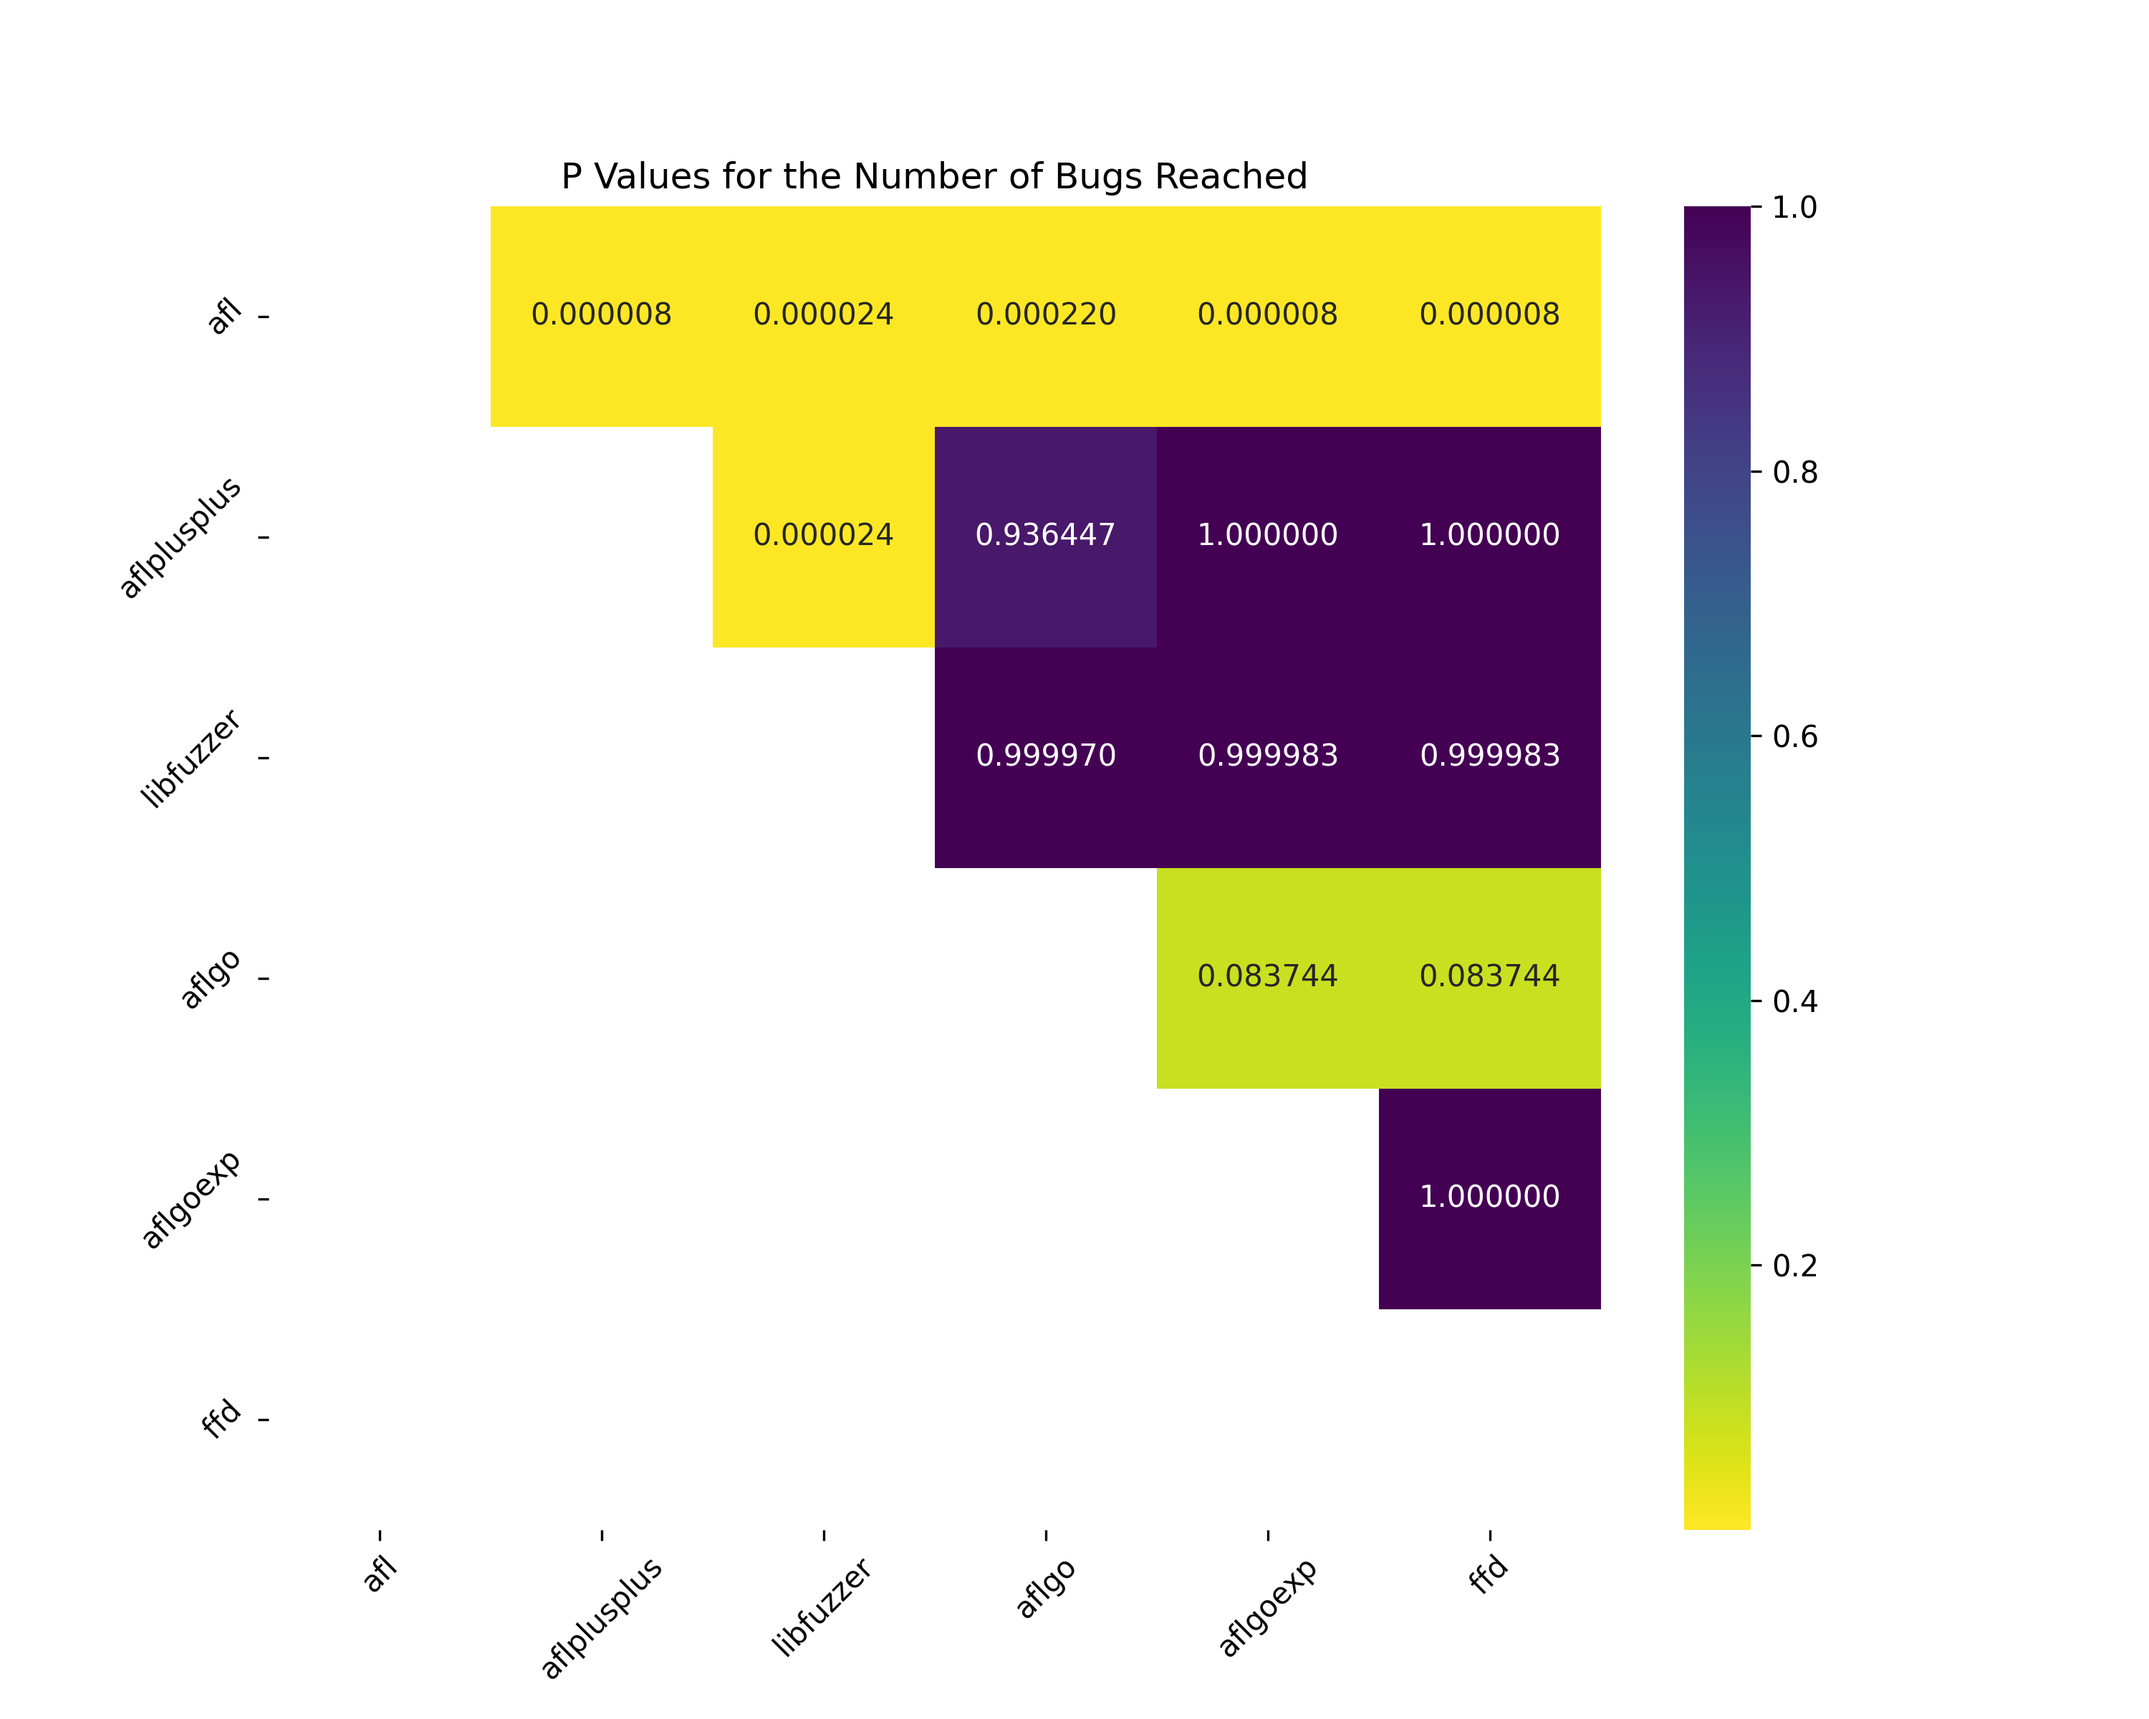
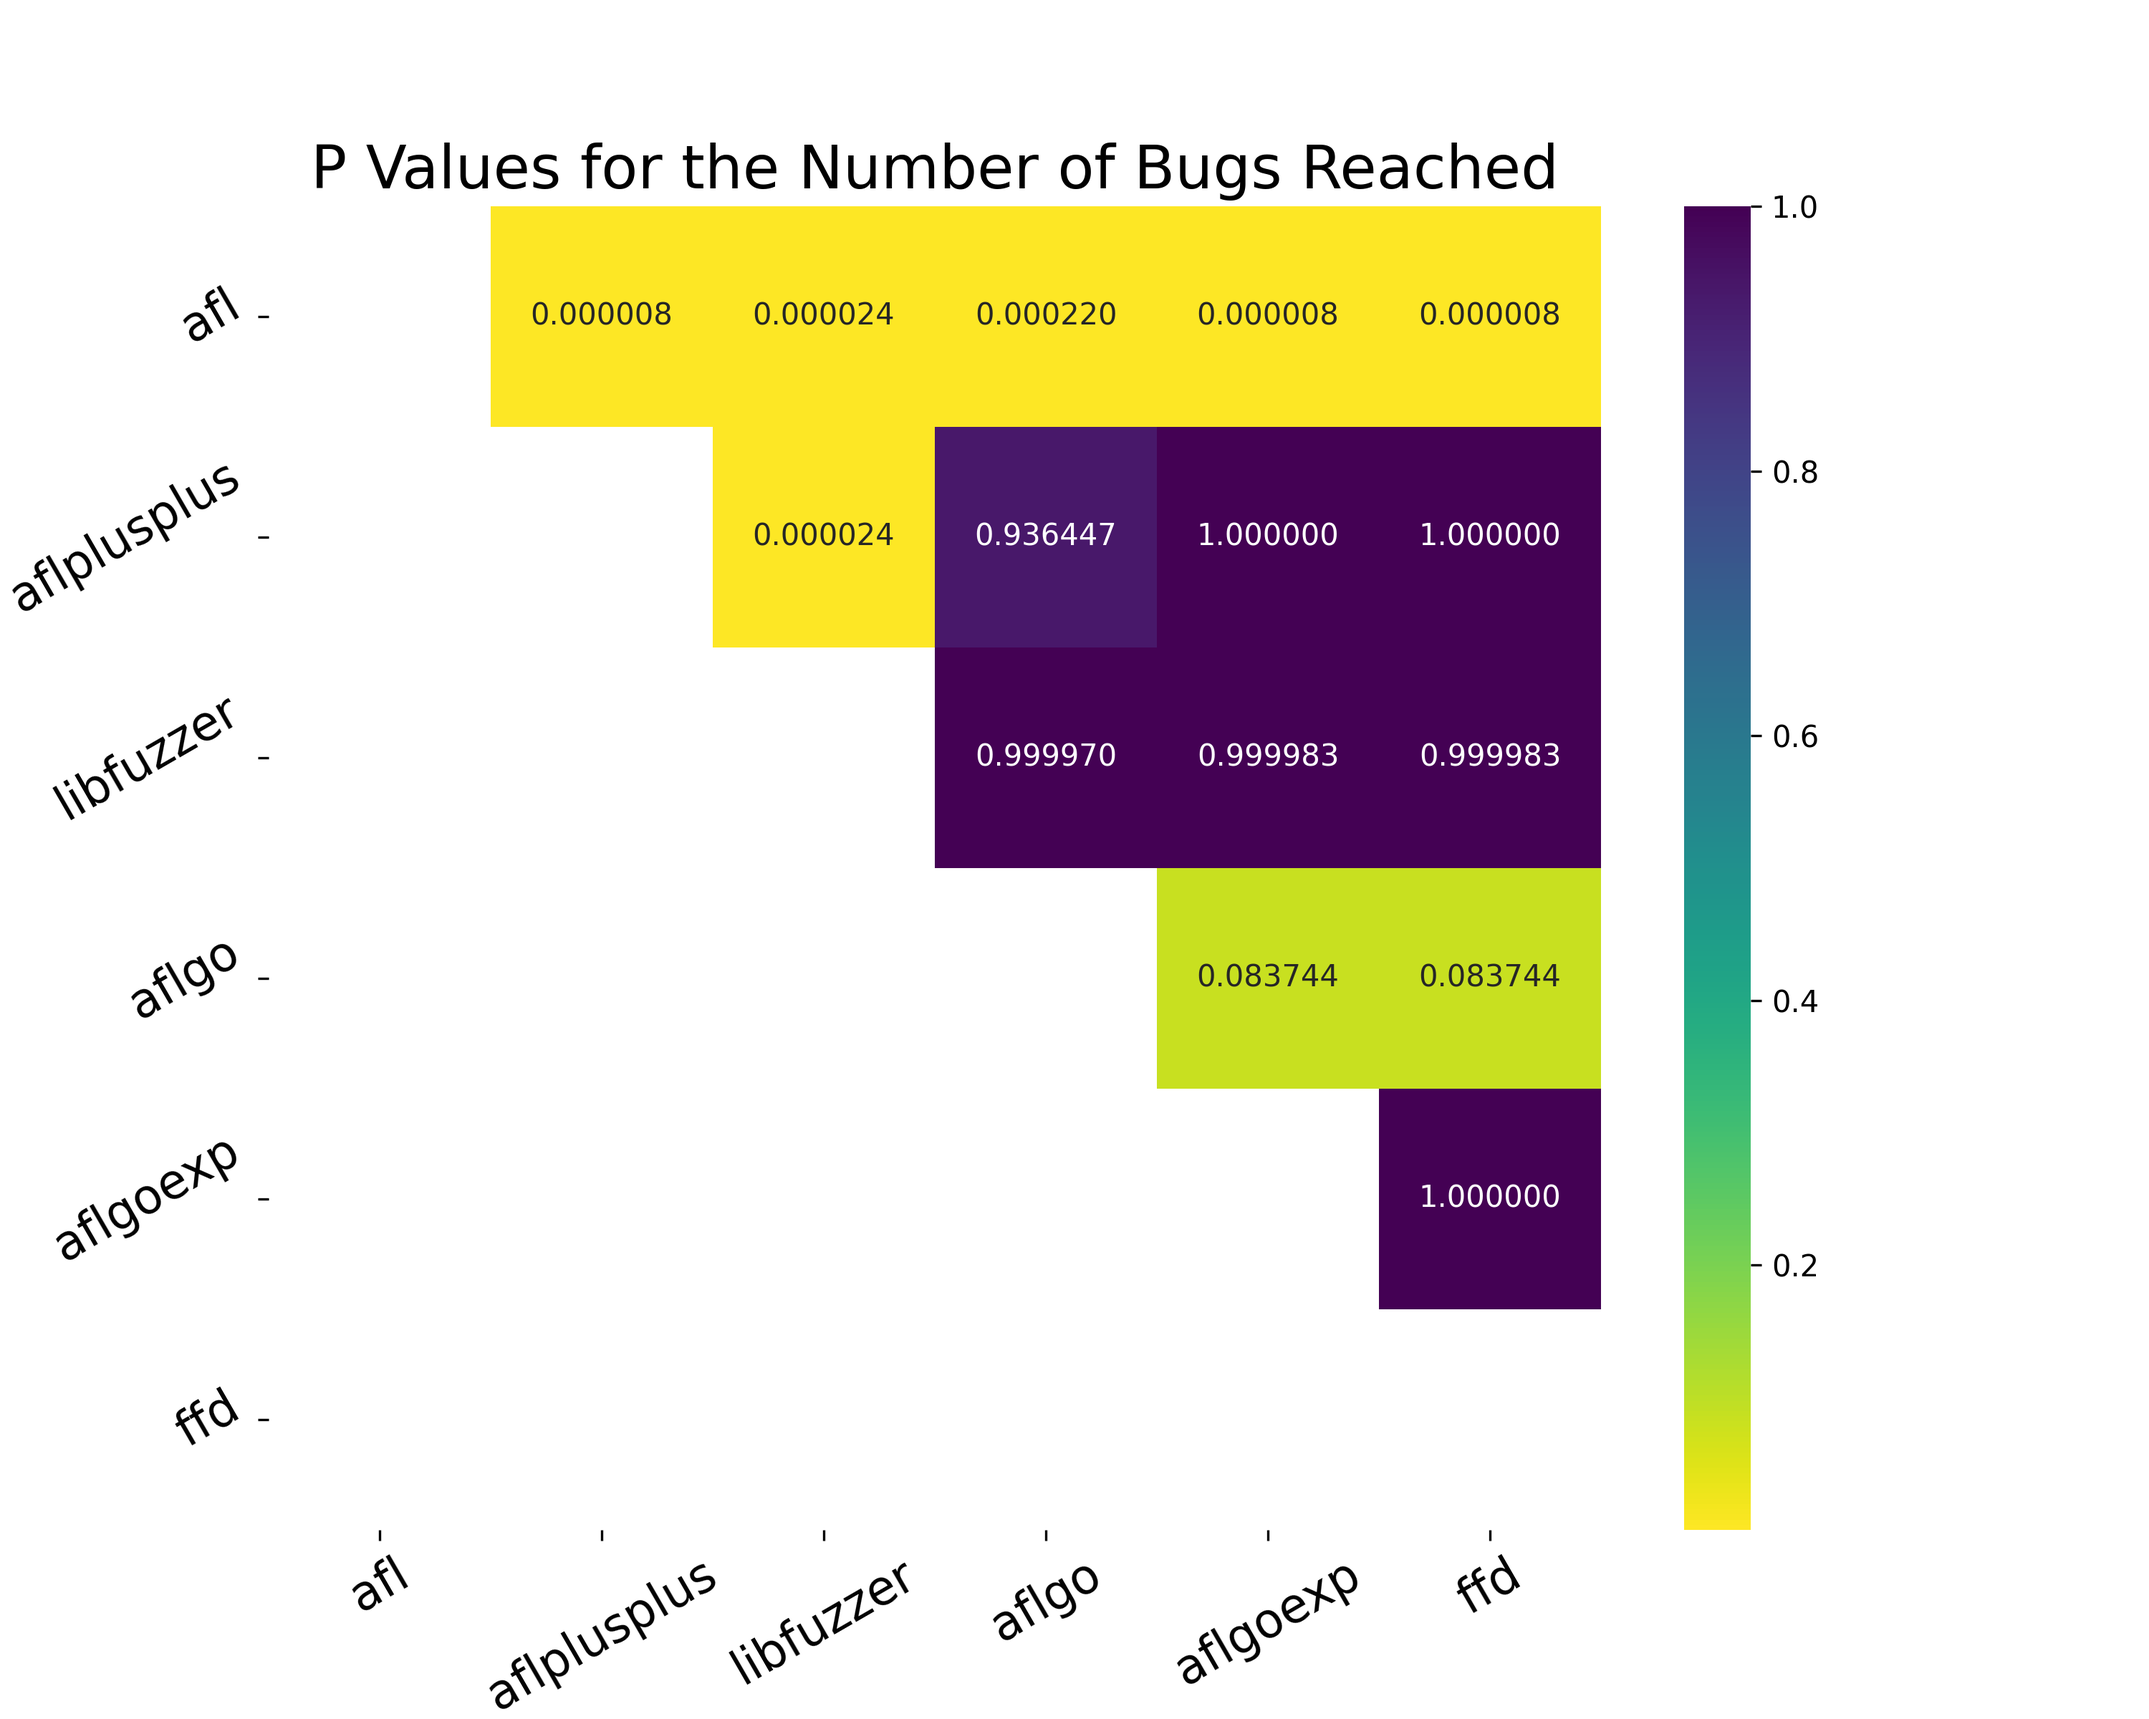
Update

diff --git a/tools/scripts/evaluation/stats_test/statistical_test.py b/tools/scripts/evaluation/stats_test/statistical_test.py
@@ -67,10 +67,12 @@ def p_val_heatmap_for_num_bug(matrix, fig_title, file_name):
     # Set custom axis labels
     ax.set_xticklabels(fuzzers)
     ax.set_yticklabels(fuzzers)
-    plt.xticks(rotation=45)
-    plt.yticks(rotation=45)
+    plt.xticks(rotation=30)
+    plt.yticks(rotation=30)
     # Customize and show the plot
-    plt.title(fig_title)
+    plt.title(fig_title, fontsize=20)
+    plt.xticks(fontsize=16)
+    plt.yticks(fontsize=16)
     # Save the plot locally
     # plt.gca().invert_yaxis()
     # plt.gca().invert_xaxis()
